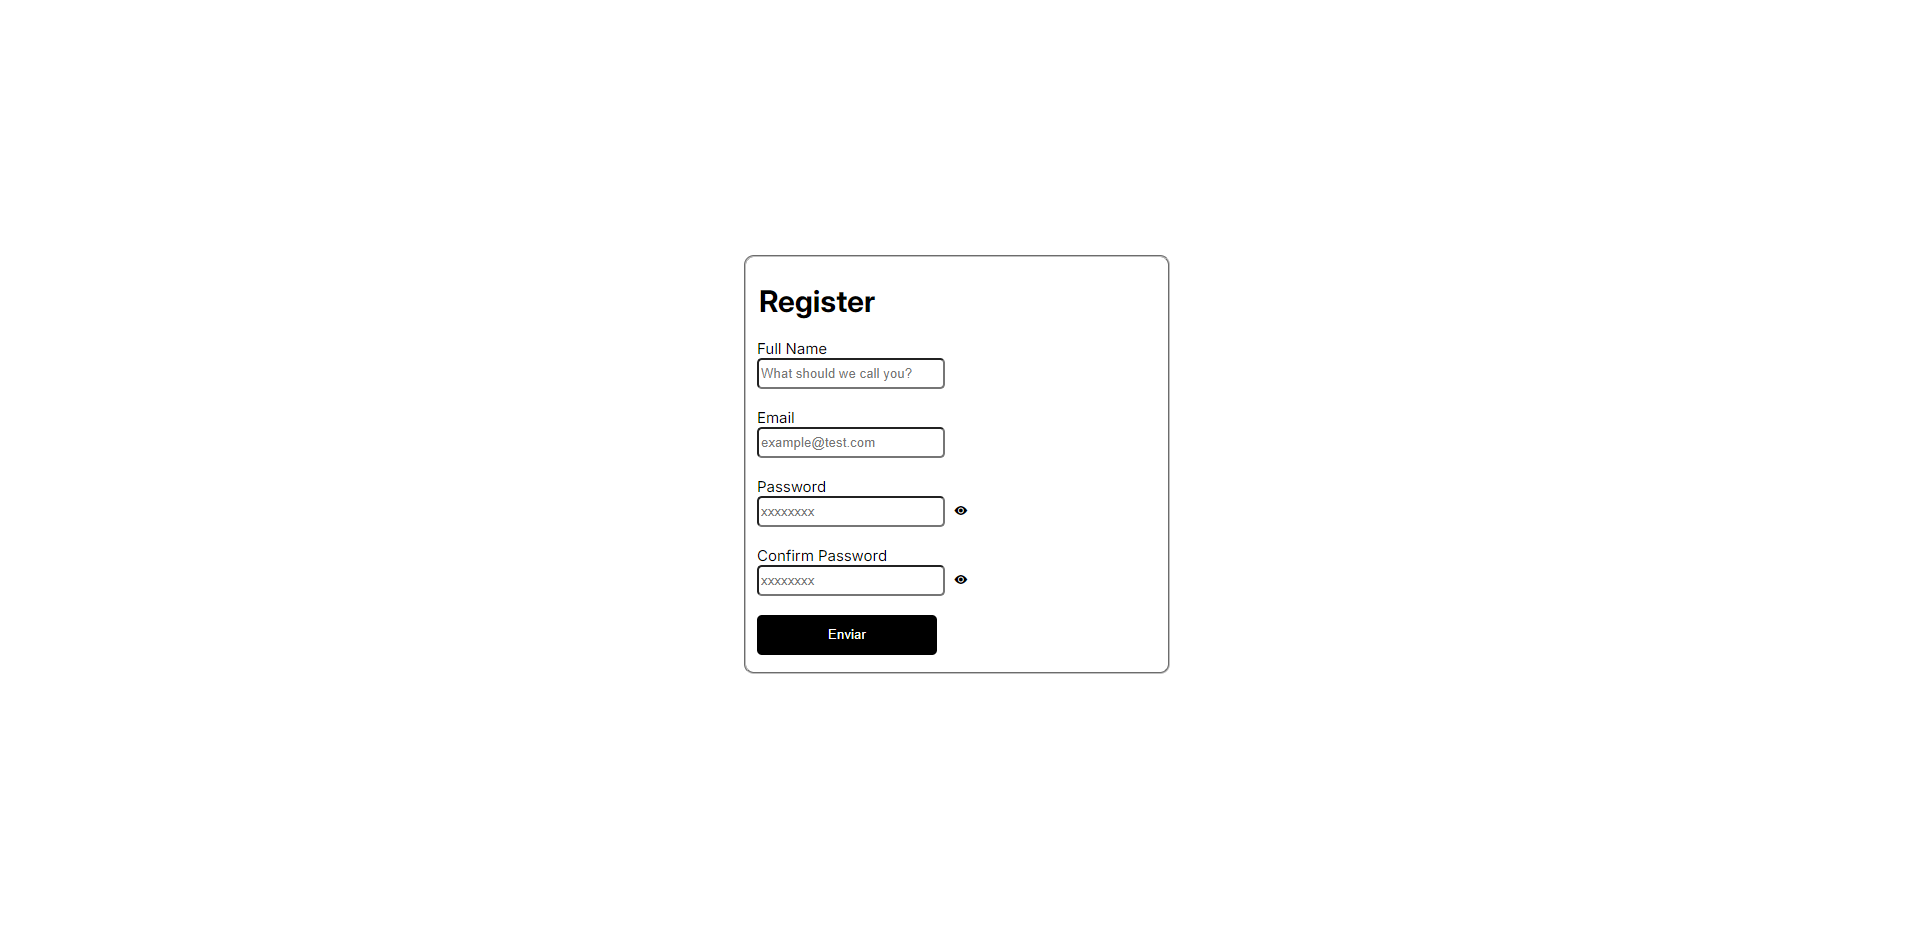
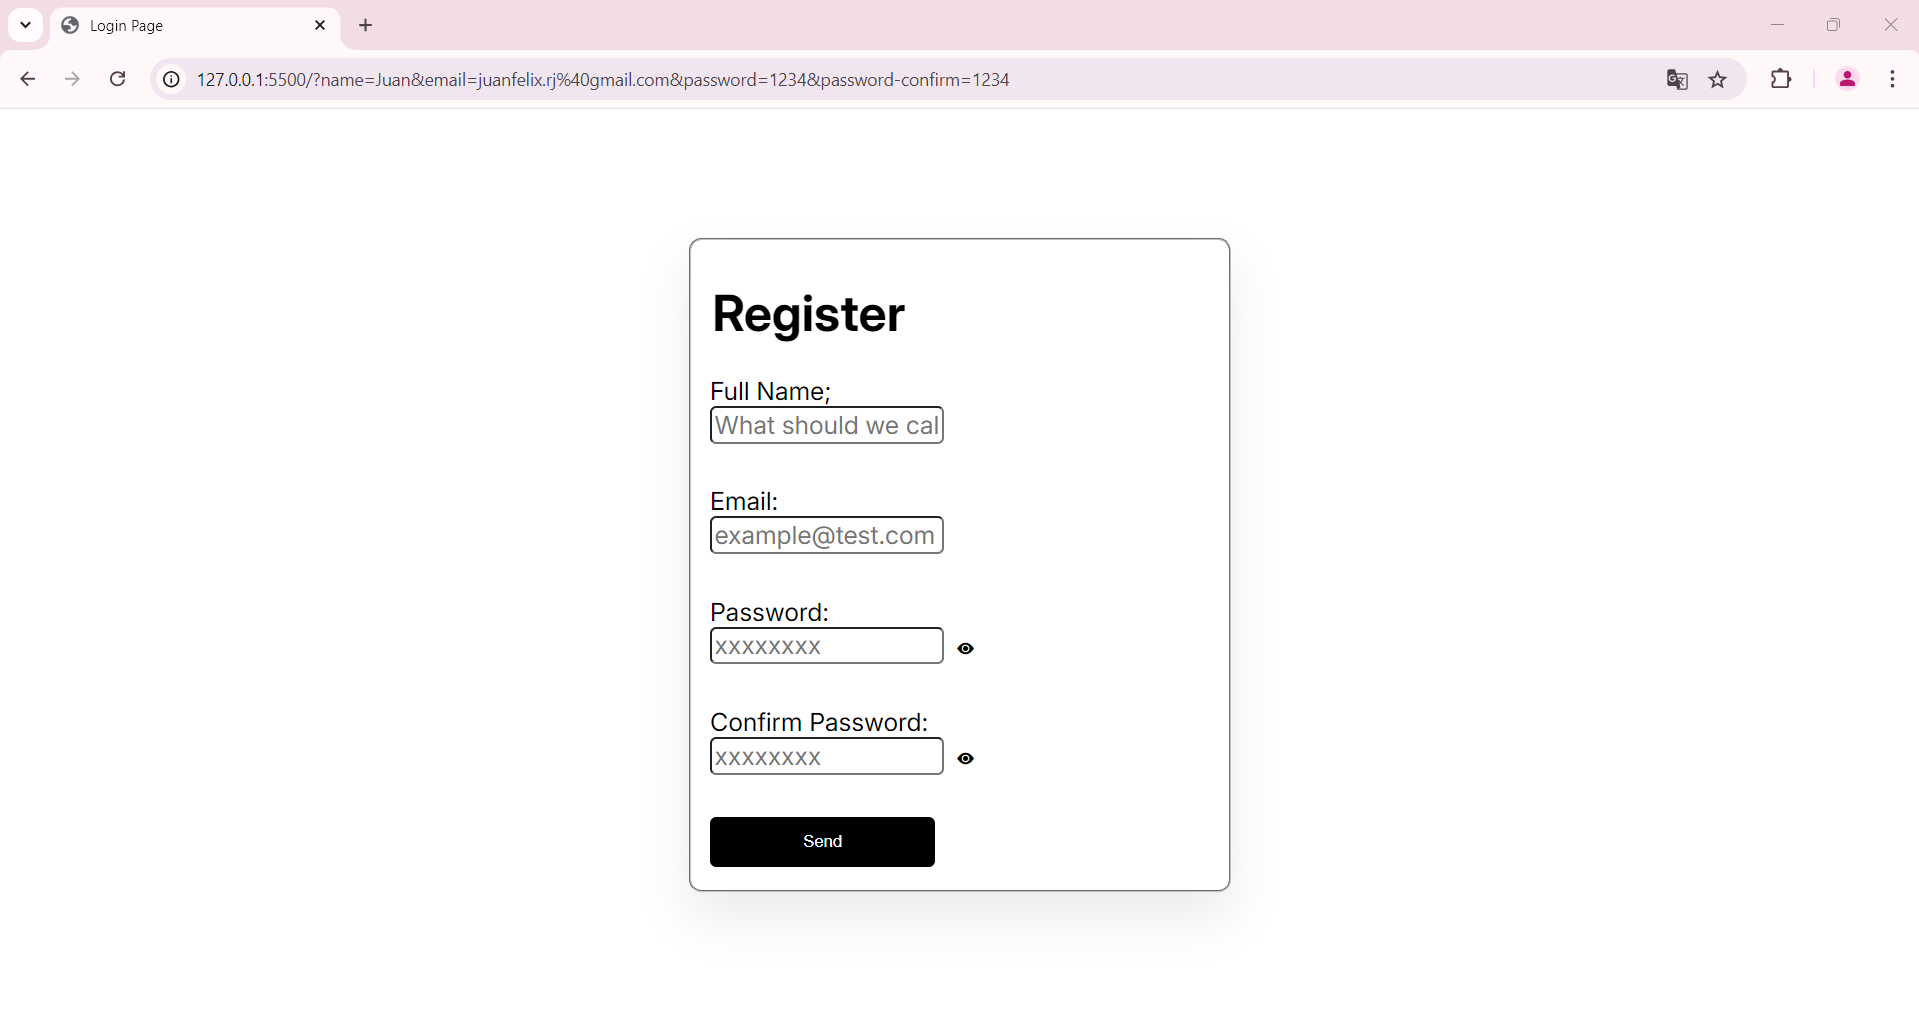
update: make some style changes

diff --git a/index.html b/index.html
@@ -13,23 +13,23 @@
 <body>
     <div class="login">
         <fieldset>
-            <form>
+            <form id="form">
                 <legend><h1>Register</h1></legend>
                 <div class="form">
                     <div id="name">
-                        <label for="name-input">Full Name</label>
+                        <label for="name-input">Full Name;</label>
                         <br>
                         <input type="text" name="name" id="name-input" placeholder="What should we call you?" required>
                     </div>
                     <br>
                     <div id="email">
-                        <label for="email-input">Email</label>
+                        <label for="email-input">Email:</label>
                         <br>
                         <input type="email" name="email" id="email-input" placeholder="example@test.com" required>
                     </div>
                     <br>
                     <div id="password">
-                        <label for="password-input">Password</label>
+                        <label for="password-input">Password:</label>
                         <br>
                         <input type="password" name="password" id="password-input" placeholder="xxxxxxxx" required>
                         <button type="button" class="password-toogle" id="password-toogle">
@@ -38,7 +38,7 @@
                     </div>
                     <br>
                     <div id="password-confirm">
-                        <label for="password-confirm-input">Confirm Password</label>
+                        <label for="password-confirm-input">Confirm Password:</label>
                         <br>
                         <input type="password" name="password-confirm" id="password-confirm-input" placeholder="xxxxxxxx" required>
                         <button type="button" class="password-toogle" id="password-confirm-toogle">
@@ -47,7 +47,7 @@
                     </div>
                     <br>
                     <div id="submit-button">
-                        <input id="submit" type="submit">
+                        <button id="submit" type="submit">Send</button>
                     </div>
                 </div>
             </form>

diff --git a/script.js b/script.js
@@ -2,6 +2,7 @@ const toogleBTN = document.querySelector("#password-toogle");
 const passwordInput = document.querySelector("#password-input");
 const toogleConfirmBTN = document.querySelector("#password-confirm-toogle");
 const passwordConfirmInput = document.querySelector("#password-confirm-input");
+const form = document.querySelector("#form")
 
 const submitBTN = document.querySelector("#submit");
 
@@ -25,7 +26,7 @@ toogleConfirmBTN.addEventListener("click", () =>{
     }
 });
 
-submitBTN.addEventListener("click", () =>{
+form.addEventListener("submit", e =>{
     if(passwordInput.value !== passwordConfirmInput.value){
         alert("Passwords do not match!");
     }else{

diff --git a/style.css b/style.css
@@ -11,17 +11,25 @@ body{
     width: 100vw;
     height: 100vh;
     font-family: "Inter";
-    font-size: 15px;
+    font-size: 20px;
+    
 }
 fieldset{
     border-radius: 10px;
     width: 400px;
-    height: 400px;
+    height: 500px;
+    box-shadow: 0 20px 40px rgba(0,0,0,.08);
 }
 input{
     border-radius: 5px;
     width: 180px;
     height: 25px;
+    margin-bottom: 10px;
+    font: inherit;
+}
+input:focus{
+    border-color: #000;
+    outline: none;
 }
 
 .password-toogle{
@@ -40,4 +48,8 @@ input{
     height: 40px;
     border: none;
     cursor: pointer;
+    padding: 12px;
+}
+#submit:hover{
+    opacity: 0.9;
 }
